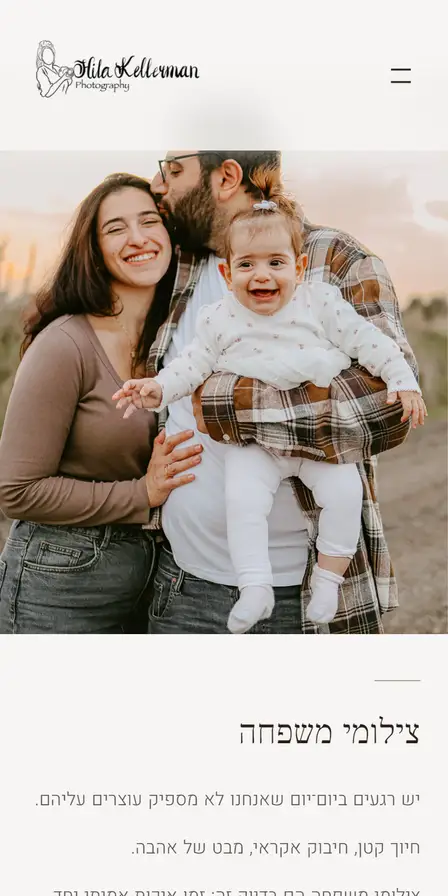
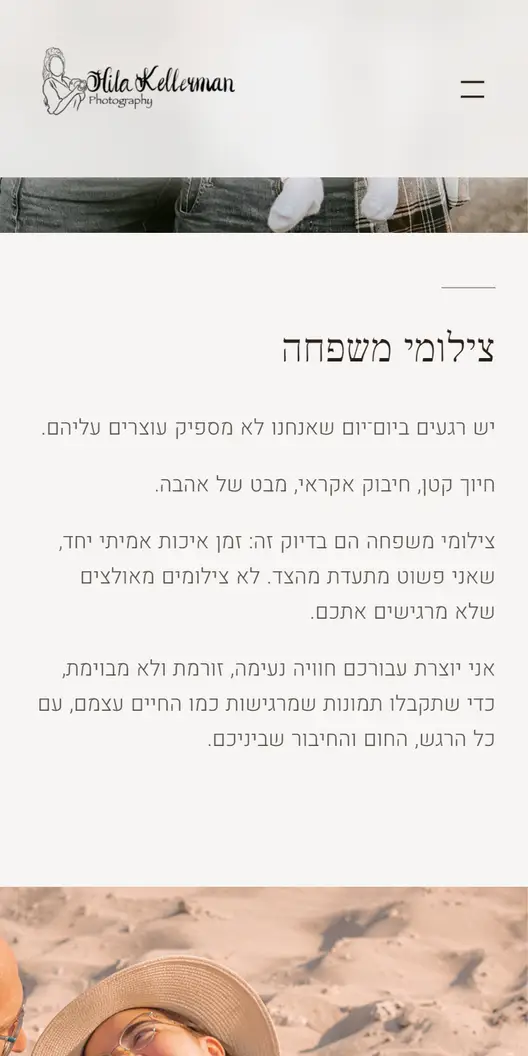
feat: wheel cards that speak about the content, readable and holdable (D244)
Every card is one phone screen cut where the site says something: a hero with
its headline and action, or a section with a heading and text. Phone cards are
larger and sharper so the text reads; a tap holds the wheel for six seconds;
the wheel opens on the first project. The work images the page no longer uses
left the repo, and the capture script makes only cards.

diff --git a/src/sun/Wheel.tsx b/src/sun/Wheel.tsx
@@ -2,6 +2,8 @@
 // the way the Horizon logo's disc sits on its line. One transform on the ring moves everything
 // (compositor only). It drifts slowly, stops under a pointer, and a finger or a mouse can spin it.
 // The cards are pictures only: no names and no links to the sites (D240). Decorative, so hidden from assistive tech.
+// Each card is a part of a site that says something: a hero with its headline, a section with a heading and
+// text (D244). So that it can be read, a tap on the wheel holds it still for a few seconds.
 // Geometry lives in sun.css (--cw, --ch, --R); 36 slots at 10 degrees, and phones show every second slot.
 // The opening (D241), the page's one staged moment: the wheel starts under the horizon, turned away, and
 // comes up and round like a heavy wheel settling, while a brush stroke is drawn under the promise and the
@@ -20,25 +22,22 @@ const OPEN = { turn: 56, below: 0.86, seconds: 1.8, rise: 1.0 }
 /** Cards in one turn of the deck: odd, and a divisor of SLOTS. */
 const UNIT = 9
 
-/** `crop` names the picture: public/work/<slug>-card-<crop>.webp ("top", "mid", or a scene "s1", "s2"). */
+/** `crop` names the picture: public/work/<slug>-card-<crop>.webp ("top", or a scene "s1", "s2"). */
 type Shot = { kind: 'shot'; slug: string; crop: string }
 type Card = Shot | { kind: 'next' }
 
-/** The deck: every project's top, more scenes of the pages that photograph well, a lower crop of others,
-    and one "yours next" card. */
+/** The deck: every project's main card, more scenes of some, and one "yours next" card. */
 function deck(): Card[] {
   const shot = (slug: string, crop: string): Shot => ({ kind: 'shot', slug, crop })
   const tops = PROJECTS.map((p) => shot(p.slug, 'top'))
   // "scenes" in work.json (D243): further parts of a page worth showing. Two at most, so one site holds
   // three cards at most, and three cards can still stand three places apart on a deck of nine.
   const scenes = PROJECTS.flatMap((p) => (p.scenes ?? []).slice(0, 2).map((_, i) => shot(p.slug, `s${i + 1}`)))
-  // a lower crop for the others; none for a page that is mostly dark further down ("crops": 1) or that has scenes
-  const mids = PROJECTS.filter((p) => p.crops !== 1 && !p.scenes?.length).map((p) => shot(p.slug, 'mid'))
   // Always nine cards, whatever work.json holds: 36 slots take the unit exactly four times (no join), and a
   // phone, which shows every second slot, still walks all nine (nine is odd). Eight pictures and the "next"
-  // card. Tops first, then scenes, then lower crops; a short list repeats from its start.
+  // card. Main cards first, then scenes; a short list repeats from its start.
   // More than eight projects: the ninth is not on the wheel until the slot count is revisited.
-  const pictures = [...tops, ...scenes, ...mids].slice(0, UNIT - 1)
+  const pictures = [...tops, ...scenes].slice(0, UNIT - 1)
   const eight = pictures.length ? Array.from({ length: UNIT - 1 }, (_, i) => pictures[i % pictures.length]) : []
   // Spread them: the site with the most cards first, and each card three places after the one before it
   // (3 and 8 share no factor, so the walk fills all eight places). Cards of one site are then never
@@ -48,7 +47,11 @@ function deck(): Card[] {
   const ranked = [...bySite.values()].sort((a, b) => b.length - a.length).flat()
   const placed: Card[] = []
   ranked.forEach((c, i) => { placed[(i * 3) % (UNIT - 1)] = c })
-  const unit: Card[] = [...placed, { kind: 'next' }]
+  const ring: Card[] = [...placed, { kind: 'next' }]
+  // the wheel opens on the first project in work.json: its main card stands in the middle of the first view
+  // (turning a ring keeps every distance, so the spacing above still holds)
+  const lead = ring.findIndex((c) => c.kind === 'shot' && c.crop === 'top' && c.slug === PROJECTS[0]?.slug)
+  const unit = lead > 0 ? [...ring.slice(lead), ...ring.slice(0, lead)] : ring
   return Array.from({ length: SLOTS }, (_, i) => unit[i % unit.length])
 }
 
@@ -74,6 +77,7 @@ export default function Wheel() {
     if (open < 0) html.classList.remove('sun-open', 'sun-play')
     const cardH = () => parseFloat(getComputedStyle(el).getPropertyValue('--ch')) || 300
     let held = false
+    let rest = 0 // until this moment (ms on the frame clock) the wheel stands still: a tap asked for time to read
     let hover = false
     let seen = true
     let raf = 0
@@ -101,7 +105,7 @@ export default function Wheel() {
       }
       if (!held) {
         if (Math.abs(v) > 0.05) { a += v * dt; v *= Math.pow(0.04, dt) } // a fling eases out in about a second
-        else if (!hover && !calm && !still()) a -= drift() * dt
+        else if (!hover && !calm && !still() && t >= rest) a -= drift() * dt
       }
       paint()
       raf = seen && !document.hidden ? requestAnimationFrame(tick) : 0
@@ -121,7 +125,14 @@ export default function Wheel() {
       lastX = e.clientX; lastT = e.timeStamp
       if (moved > 6 && !el.hasPointerCapture(e.pointerId)) el.setPointerCapture(e.pointerId)
     }
-    const up = () => { held = false; v = Math.max(-240, Math.min(240, v)); if (still()) v = 0 }
+    const up = (e: PointerEvent) => {
+      // a tap (a finger that did not drag) holds the wheel for six seconds so a card can be read; a second tap
+      // lets it go. Not for a mouse (it holds by hovering) and not on the WhatsApp card, which is a link.
+      if (held && moved <= 6 && e.pointerType !== 'mouse' && !(e.target as Element | null)?.closest?.('a')) {
+        rest = performance.now() < rest ? 0 : performance.now() + 6000
+      }
+      held = false; v = Math.max(-240, Math.min(240, v)); if (still()) v = 0
+    }
     // a drag must not open the card it started on
     const click = (e: MouseEvent) => { if (moved > 6) { e.preventDefault(); e.stopPropagation() } }
     const enter = (e: PointerEvent) => { if (e.pointerType === 'mouse') hover = true }
@@ -162,7 +173,7 @@ export default function Wheel() {
           <div className="wheel__slot" key={i} style={{ '--i': i } as React.CSSProperties}>
             {c.kind === 'shot' ? (
               <div className="wheel__card" data-crop={c.crop}>
-                <img src={`/work/${c.slug}-card-${c.crop}.webp`} alt="" width={448} height={896} draggable={false}
+                <img src={`/work/${c.slug}-card-${c.crop}.webp`} alt="" width={528} height={1056} draggable={false}
                   loading={i < 3 || i > SLOTS - 3 ? 'eager' : 'lazy'} decoding="async" {...(i === 0 ? { fetchpriority: 'high' } : {})} />
               </div>
             ) : (

diff --git a/src/sun/content.ts b/src/sun/content.ts
@@ -16,10 +16,11 @@ export interface Project {
   name: string
   /** where the shots are taken from (scripts/capture-work.mjs); the site never links to it (D238) */
   url: string
-  /** 1: the wheel shows only the top of the page (default: the top and a part further down) */
-  crops?: number
-  /** more scenes of a page that photographs well: offsets in CSS px from the top of the 390 px wide page.
-      The wheel shows the first two (cards -card-s1 and -card-s2, made by scripts/capture-work.mjs). */
+  /** Where the project's main card is cut: CSS px from the top of the 390 px wide page (default 0, the hero).
+      Chosen so the card says something: a headline and an action, or a heading and text (D244). */
+  top?: number
+  /** Further cards of the same page, as offsets like `top`. The wheel shows the first two
+      (cards -card-s1 and -card-s2, made by scripts/capture-work.mjs). */
   scenes?: number[]
 }
 export const PROJECTS = workJson as Project[]

diff --git a/src/sun/sun.css b/src/sun/sun.css
@@ -206,7 +206,7 @@ html.menu-open .head { background: var(--paper); }
 }
 
 /* the wheel: slots stand on a circle of radius --R around the ring's origin; the ring alone turns */
-.wheel { --cw: 150px; --ch: 300px; --R: 500px; position: relative; height: calc(var(--ch) + 60px); overflow: hidden; touch-action: pan-y; cursor: grab; user-select: none; -webkit-user-select: none; }
+.wheel { --cw: 176px; --ch: 352px; --R: 568px; position: relative; height: calc(var(--ch) + 60px); overflow: hidden; touch-action: pan-y; cursor: grab; user-select: none; -webkit-user-select: none; }
 .wheel:active { cursor: grabbing; }
 .wheel__ground { position: absolute; inset-inline: -3%; bottom: -1px; height: calc(var(--ch) * .46); background: var(--paper); border-radius: 50% 50% 0 0 / 100% 100% 0 0; }
 .wheel__ring { position: absolute; left: 50%; top: calc(18px + var(--ch) / 2 + var(--R)); width: 0; height: 0; will-change: transform; }

diff --git a/DECISIONS.rtl.md b/DECISIONS.rtl.md
@@ -573,3 +573,12 @@
   - **למה שלושה ולא יותר:** בחפיסה של תשעה קלפים, שלושה קלפים של אותו אתר עוד יכולים לעמוד שלושה מקומות זה מזה, ואז אין שניים צמודים, לא בדסקטופ ולא בטלפון (שמציג כל מקום שני). ארבעה כבר לא.
   - **מה ירד כדי לפנות מקום:** החיתוך התחתון של בן דוד ושל יעל לוי. לכל אתר יש לפחות קלף אחד; ל-SwitchOn נשארו שניים.
   - **איך מוסיפים סצנות לאתר:** ב-`src/data/work.json`, שדה `scenes` עם מרחקים בפיקסלים מראש הדף (ברוחב 390), ואז `node scripts/capture-work.mjs <slug>`. הגלגל לוקח את שתי הראשונות. הסדר בגלגל מחושב לבד: האתר עם הכי הרבה קלפים ראשון, וכל קלף שלושה מקומות אחרי הקודם.
+
+- **D244 · קלפים שמדברים על התוכן (נתי, 12.11):** "תקח קטעים שיותר מדברים על התוכן, פחות מראים. למשל שרואים את ה-hero של כל אתר כמו של יעל. תעשה שיפור נוסף ואיכותי. תגדיל ראש."
+  - **הכלל החדש לקלף:** קלף הוא מסך טלפון אחד מהאתר, שנבחר כך שהוא אומר משהו: פתיחה עם כותרת וכפתור, או מקטע עם כותרת וטקסט. לא תמונה לבדה.
+  - **מה נבחר בכל אתר:** SwitchOn: הפתיחה (כותרת, משפט, כפתור) ו"שלושה צעדים". יעל לוי: הדיוקן, השם, התואר והמשפט המרכזי. בן דוד: "המחלקות שלנו" עם ארבע הקטגוריות והשמות שלהן (הפתיחה שלו היא תמונה בלי מילה). הילה: "קצת עלי", "צילומי משפחה" עם הטקסט, ו"כל רגע הוא סיפור". האתר הקודם שלנו: הפתיחה עם הכותרת. הזוג הרוקד והגלריה של הילה ירדו.
+  - **שיפור 1, שייקרא:** בטלפון הקלפים גדלו מ-150 ל-176 פיקסלים רוחב, והתמונות נשמרות חדות יותר (528 במקום 448), כך שהכותרת שבתוך הקלף נקראת.
+  - **שיפור 2, זמן לקרוא:** נגיעה בגלגל עוצרת אותו לשש שניות, ונגיעה נוספת משחררת. גרירה עדיין מסובבת, והדף ממשיך להיגלל מעליו. בעכבר הגלגל עוצר כמו קודם, כשעומדים עליו.
+  - **שיפור 3, הקלף הפותח:** הגלגל נפתח על האתר הראשון ב-work.json (היום SwitchOn), כי הפתיחה שלו היא הדוגמה הכי ברורה למה שאנחנו מוכרים: כותרת שאומרת מה מקבלים וכפתור אחד.
+  - **ניקיון:** ירדו מהריפו תמונות העבודות שהדף כבר לא משתמש בהן (צילומי דסקטופ, צילומי הדף המלא והחיתוכים התחתונים), כ-1.3MB. הן בהיסטוריה של git. סקריפט הצילום מייצר עכשיו רק קלפים.
+  - **איך בוחרים קטע:** ב-`src/data/work.json`, `top` הוא המרחק בפיקסלים מראש הדף לקלף הראשי (ברירת מחדל 0), ו-`scenes` הם קלפים נוספים. אחרי שינוי: `node scripts/capture-work.mjs <slug>`. אם לאתר יש כותרת עליונה קבועה, היא מכסה כ-90 פיקסלים בראש כל קלף, אז התוכן החשוב צריך להתחיל מתחתיה.

diff --git a/.context/NEXT-SESSION-PROMPT-MORIAH.rtl.md b/.context/NEXT-SESSION-PROMPT-MORIAH.rtl.md
@@ -3,8 +3,8 @@
 ממשיכים את העבודה על האתר החדש של mediawave.co.il מאותה נקודה שבה נתי עצר ב-12.11.2026.
 
 ## קודם כול, קרא בסדר הזה
-1. `.context/HANDOFF.md`, רק החלק העליון ("the statement site", D237 עד D243).
-2. `DECISIONS.rtl.md`, שבע ההחלטות האחרונות: D237 עד D243.
+1. `.context/HANDOFF.md`, רק החלק העליון ("the statement site", D237 עד D244).
+2. `DECISIONS.rtl.md`, שמונה ההחלטות האחרונות: D237 עד D244.
 3. `src/sun/content.ts`: כל הטקסטים של דף הבית, במקום אחד.
 
 ## איפה העבודה
@@ -23,6 +23,7 @@
 - יש רגע פתיחה אחד, כ-1.8 שניות: משיכת מכחול מתחת להבטחה, גלגל האתרים עולה מתחת לאופק ומסתובב פנימה, והמדבקה נחתמת. חוץ ממנו רק הגלגל זז מעצמו. פעולה אחת בכל הדף: וואטסאפ.
 - בטופס יש בועת וואטסאפ שמראה את ההודעה שתישלח ומתמלאת תוך כדי הקלדה. מתחת לשלבים יש פתק עם תאריך אמיתי ("מתחילים ביום ראשון? באוויר עד...") שמחושב לפי היום.
 - האתרים נראים רק בגלגל, כתמונות: בלי שמות לקוחות, בלי תיאורים ובלי קישורים. הרשימה ב-`src/data/work.json` (חמישה אתרים).
+- כל קלף בגלגל הוא מסך טלפון אחד שנבחר כך שהוא אומר משהו (פתיחה עם כותרת וכפתור, או מקטע עם כותרת וטקסט), לא תמונה לבדה. בוחרים קטע עם `top` ו-`scenes` ב-work.json. נגיעה בגלגל עוצרת אותו לשש שניות כדי שאפשר יהיה לקרוא.
 - `npm run dev` מריץ את האתר החדש. `npm run build` בונה אותו. האתר הקודם נבנה ב-`npm run build:shot`.
 
 ## הכללים של נתי לסבב הזה
@@ -54,4 +55,4 @@
 ## איך לעבוד
 - כל שינוי: לבדוק ב-390 וב-1440, לוודא שאין גלילה אופקית ושאין שגיאות, ואז commit ודחיפה לענף כדי שהתצוגה המקדימה תתעדכן.
 - הדחיפה עובדת רק מהחשבון `mediawave-dev` (הפקודה בזיכרון הפרויקט, `mediawave-github-deploy`).
-- בסוף כל סבב: לעדכן את `.context/HANDOFF.md` ולהוסיף החלטה ממוספרת ל-`DECISIONS.rtl.md` (הבאה: D244).
+- בסוף כל סבב: לעדכן את `.context/HANDOFF.md` ולהוסיף החלטה ממוספרת ל-`DECISIONS.rtl.md` (הבאה: D245).

diff --git a/.context/HANDOFF.md b/.context/HANDOFF.md
@@ -31,6 +31,9 @@ Eight independent reviewers, a skeptic per finding (31 of 32 confirmed) and one 
 ## D243, the same day
 Two more scenes of Hila Kelerman's page on the wheel (her family-photos block and her gallery), three cards in all, and the wheel now opens on her. A project gets scenes through `"scenes": [offsets in CSS px]` in src/data/work.json and `node scripts/capture-work.mjs <slug>` (cards -card-s1, -card-s2). The deck (Wheel.tsx, deck()) orders itself: tops, then scenes, then lower crops, cut to eight pictures, and spread so that one site's cards stand three places apart.
 
+## D244, the same day
+Nati: cards that speak about the content, not pictures alone ("the hero of each site, like Yael's"), plus one more quality step on my own initiative. Every card is now one phone screen cut where the site says something (`top` and `scenes` offsets in src/data/work.json; scripts/capture-work.mjs makes only cards now, 528 px wide). Phone cards grew to 176 px so the text reads; a tap holds the wheel for six seconds (a second tap releases it); the wheel opens on the first project in work.json. The desktop shots, full-page shots and lower crops left the repo (in git history); mediawave-2026-phone.webp stays as the source of that hand-made card.
+
 ## Waiting for Nati
 1. The direction itself, on the preview.
 2. The lines marked [קופי: נתי] in `src/sun/content.ts`.
